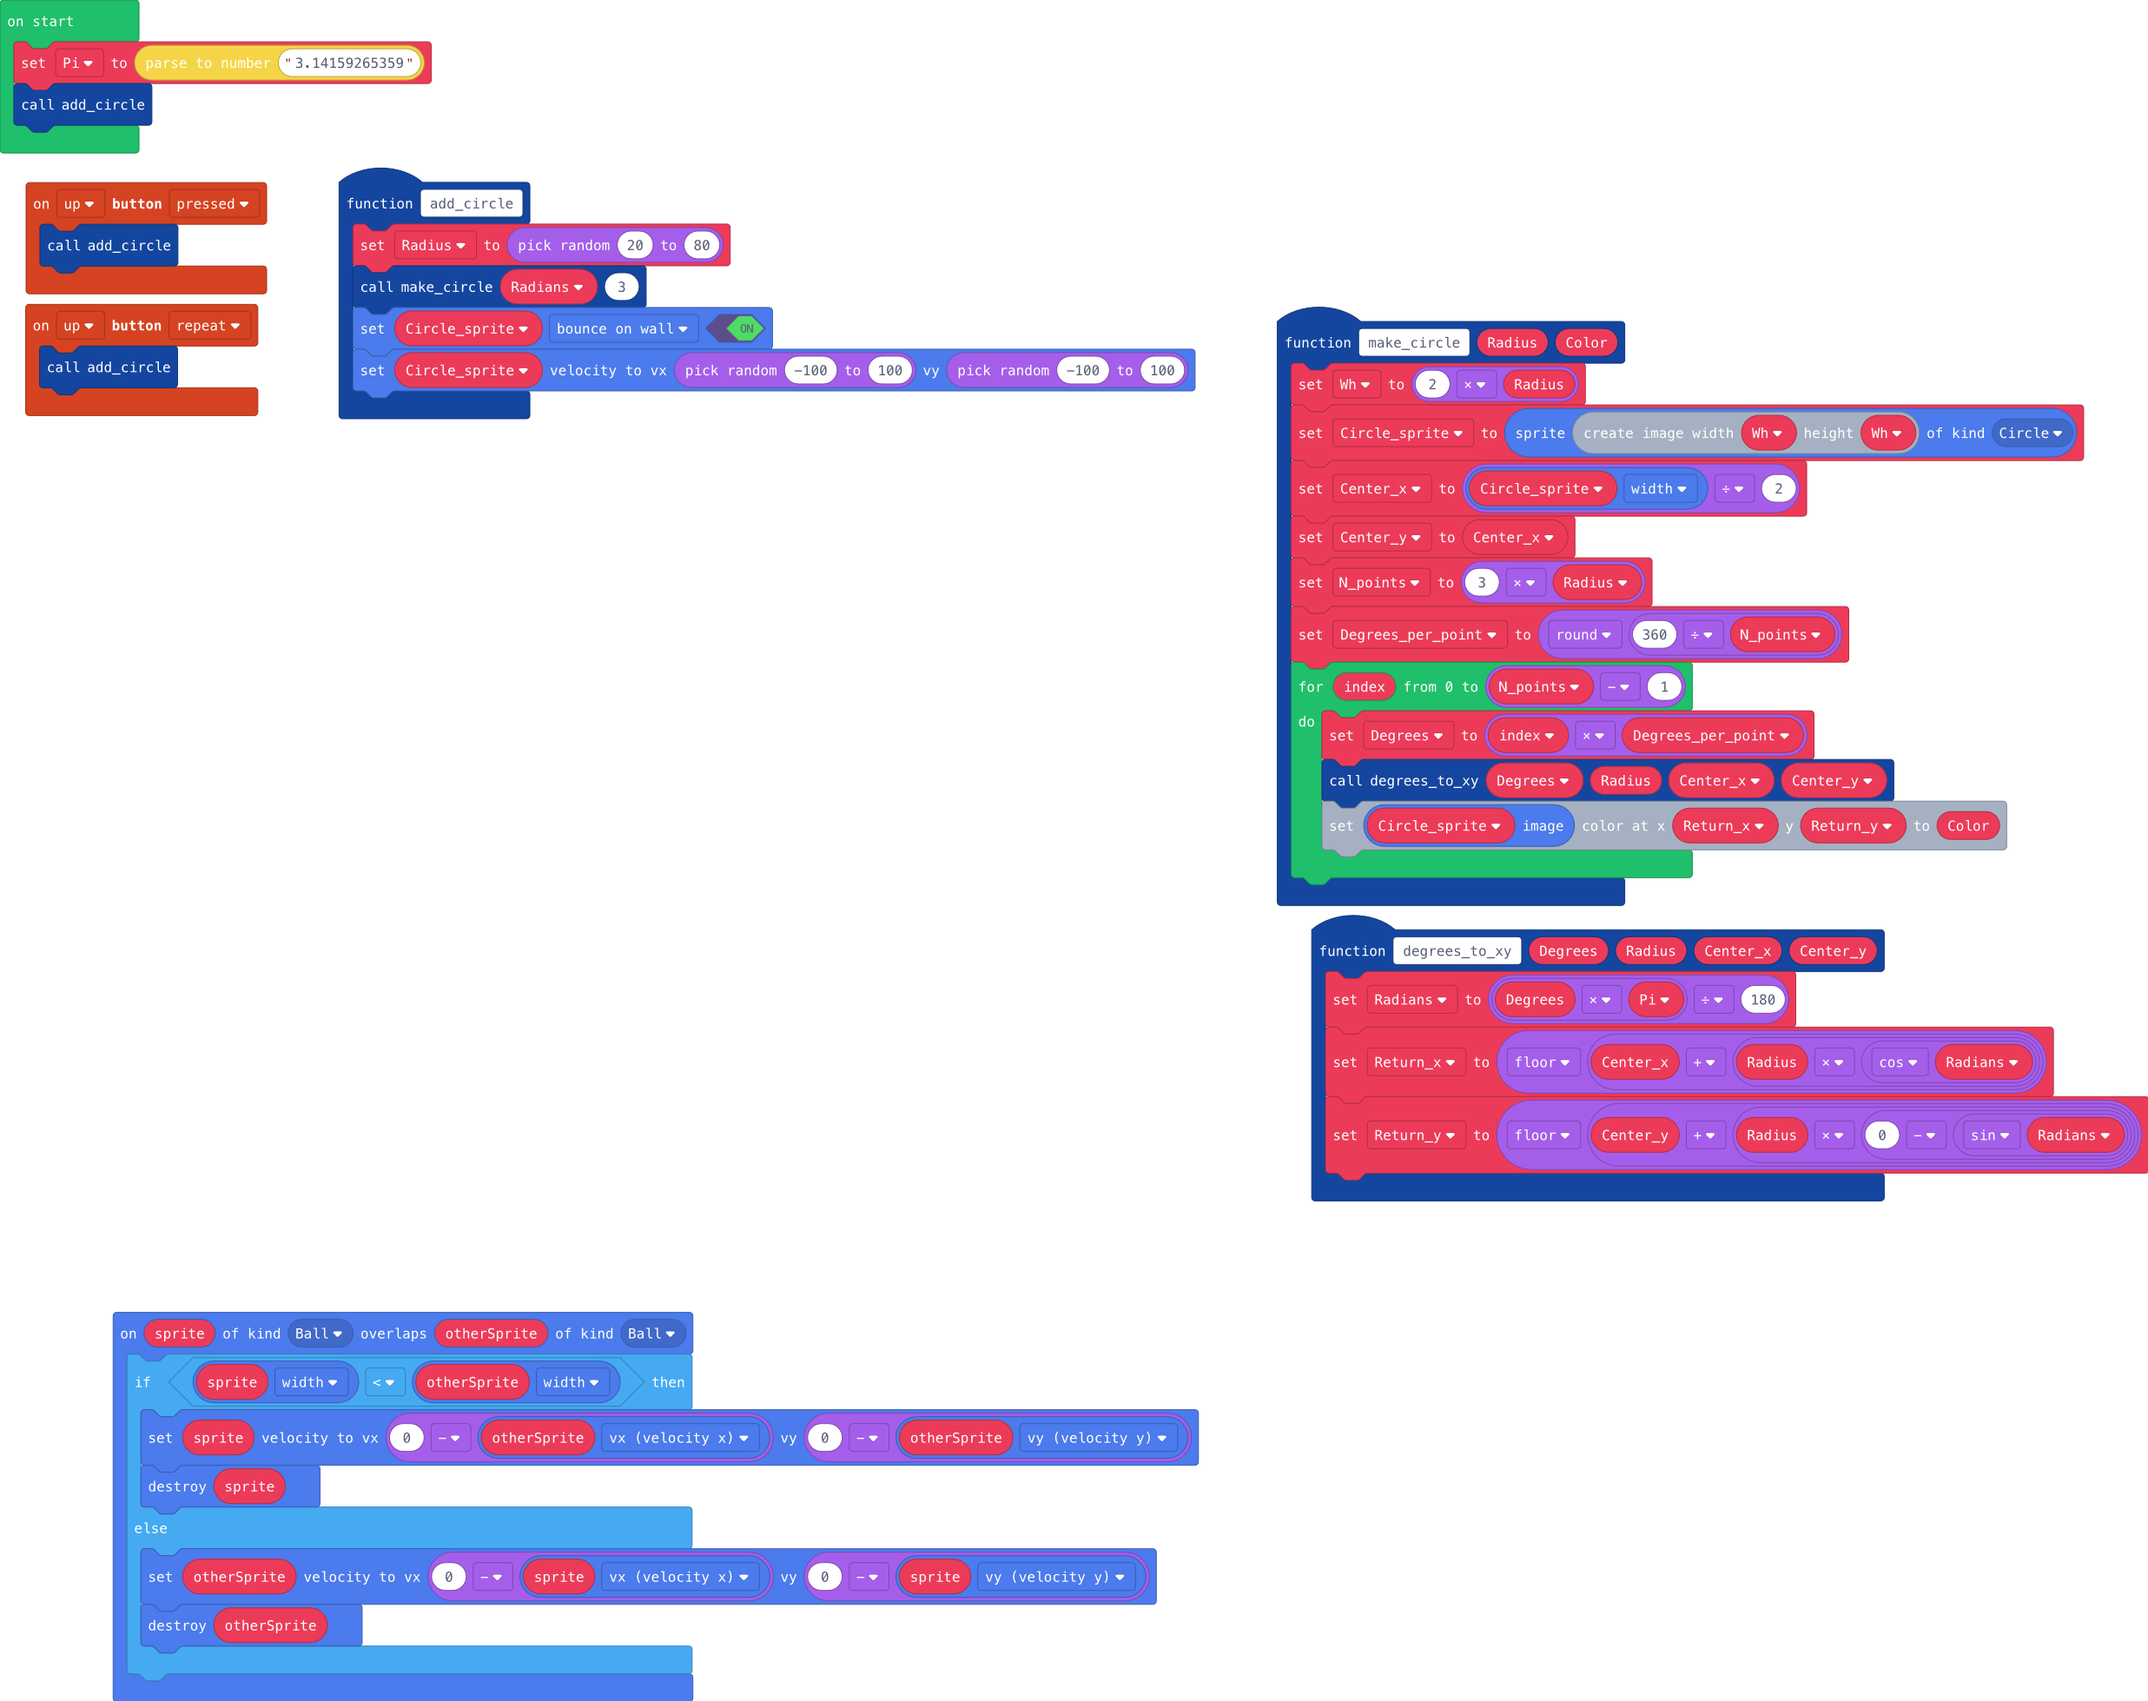
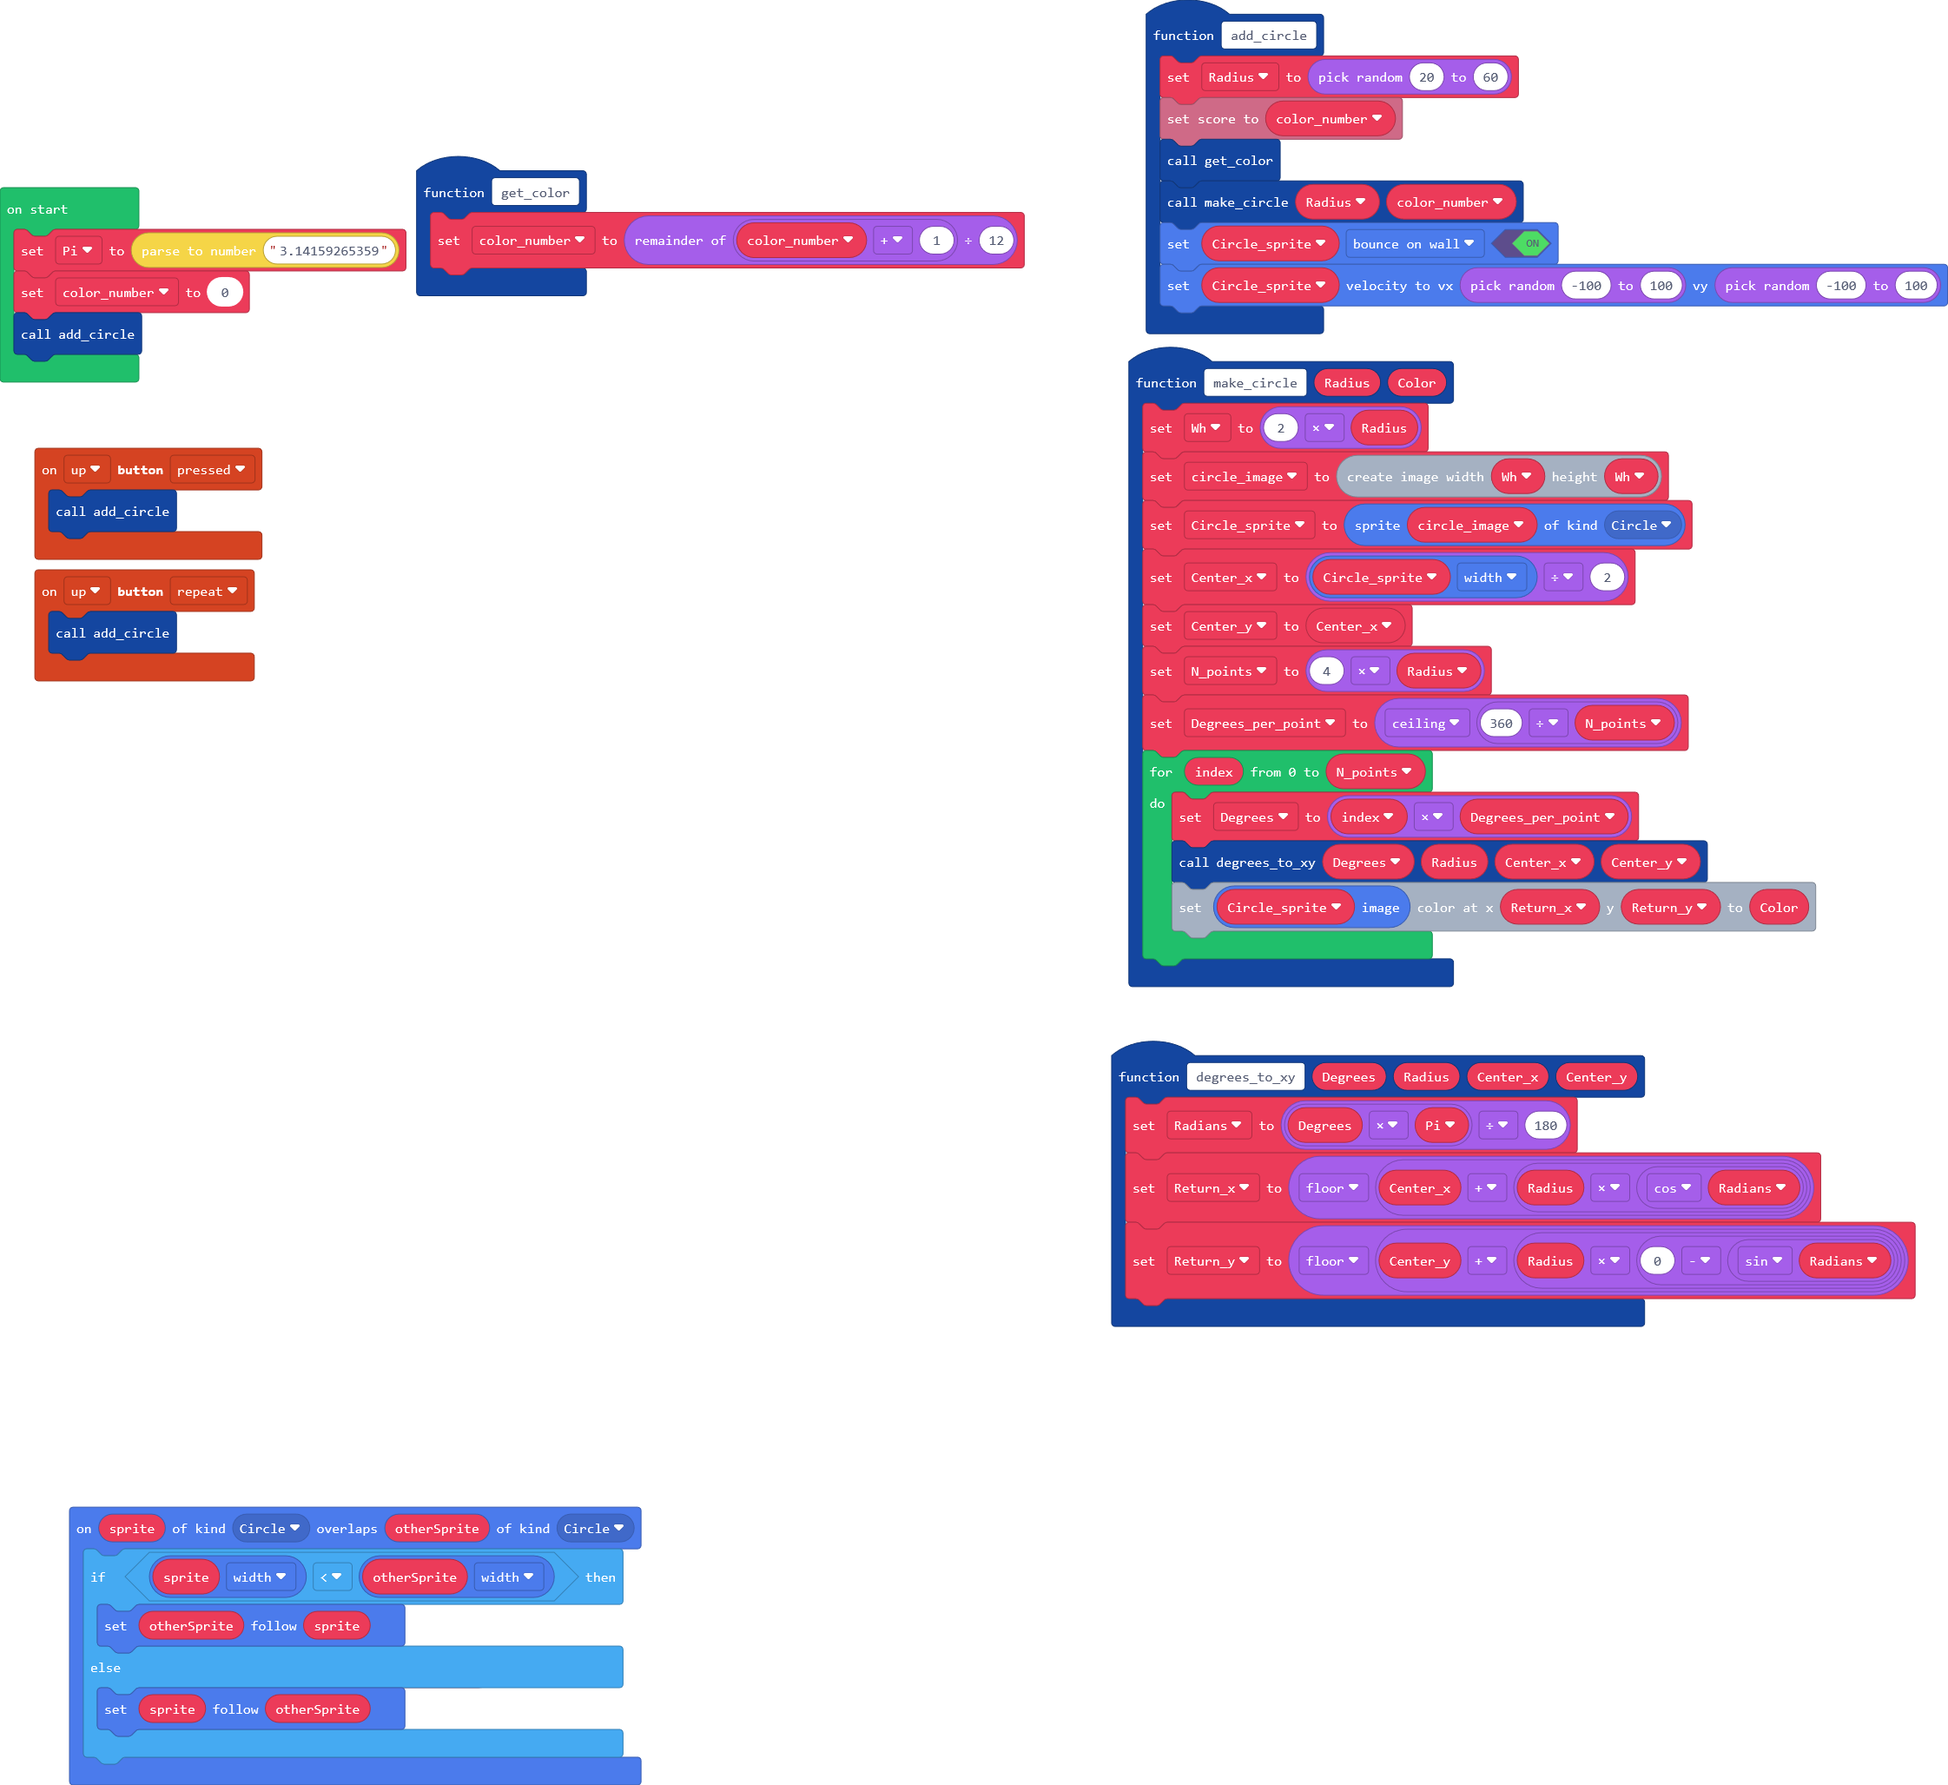
Update pxt.json, main.blocks, main.ts

diff --git a/main.ts b/main.ts
@@ -2,34 +2,38 @@ namespace SpriteKind {
     export const Ball = SpriteKind.create()
     export const Circle = SpriteKind.create()
 }
+sprites.onOverlap(SpriteKind.Circle, SpriteKind.Circle, function (sprite, otherSprite) {
+    if (sprite.width < otherSprite.width) {
+        otherSprite.follow(sprite)
+    } else {
+        sprite.follow(otherSprite)
+    }
+})
+function get_color () {
+    color_number = (color_number + 1) % 12
+}
+function add_circle () {
+    Radius = Math.randomRange(20, 60)
+    info.setScore(color_number)
+    get_color()
+    make_circle(Radius, color_number)
+    Circle_sprite.setFlag(SpriteFlag.BounceOnWall, true)
+    Circle_sprite.setVelocity(Math.randomRange(-100, 100), Math.randomRange(-100, 100))
+}
 function make_circle (Radius: number, Color: number) {
     Wh = 2 * Radius
-    Circle_sprite = sprites.create(image.create(Wh, Wh), SpriteKind.Circle)
+    circle_image = image.create(Wh, Wh)
+    Circle_sprite = sprites.create(circle_image, SpriteKind.Circle)
     Center_x = Circle_sprite.width / 2
     Center_y = Center_x
-    N_points = 3 * Radius
-    Degrees_per_point = Math.round(360 / N_points)
-    for (let index = 0; index <= N_points - 1; index++) {
+    N_points = 4 * Radius
+    Degrees_per_point = Math.ceil(360 / N_points)
+    for (let index = 0; index <= N_points; index++) {
         Degrees = index * Degrees_per_point
         degrees_to_xy(Degrees, Radius, Center_x, Center_y)
         Circle_sprite.image.setPixel(Return_x, Return_y, Color)
     }
 }
-function add_circle () {
-    Radius = Math.randomRange(20, 80)
-    make_circle(Radians, 3)
-    Circle_sprite.setFlag(SpriteFlag.BounceOnWall, true)
-    Circle_sprite.setVelocity(Math.randomRange(-100, 100), Math.randomRange(-100, 100))
-}
-sprites.onOverlap(SpriteKind.Ball, SpriteKind.Ball, function (sprite, otherSprite) {
-    if (sprite.width < otherSprite.width) {
-        sprite.setVelocity(0 - otherSprite.vx, 0 - otherSprite.vy)
-        sprite.destroy()
-    } else {
-        otherSprite.setVelocity(0 - sprite.vx, 0 - sprite.vy)
-        otherSprite.destroy()
-    }
-})
 controller.up.onEvent(ControllerButtonEvent.Repeated, function () {
     add_circle()
 })
@@ -46,12 +50,15 @@ let Return_y = 0
 let Return_x = 0
 let Degrees = 0
 let Degrees_per_point = 0
-let Radius = 0
 let N_points = 0
 let Center_y = 0
 let Center_x = 0
-let Circle_sprite: Sprite = null
+let circle_image: Image = null
 let Wh = 0
+let Circle_sprite: Sprite = null
+let Radius = 0
+let color_number = 0
 let Pi = 0
 Pi = parseFloat("3.14159265359")
+color_number = 0
 add_circle()
